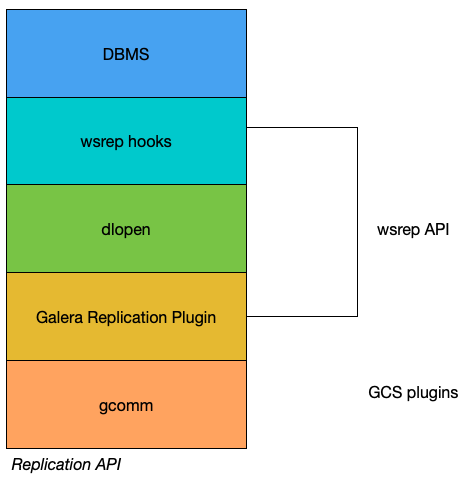
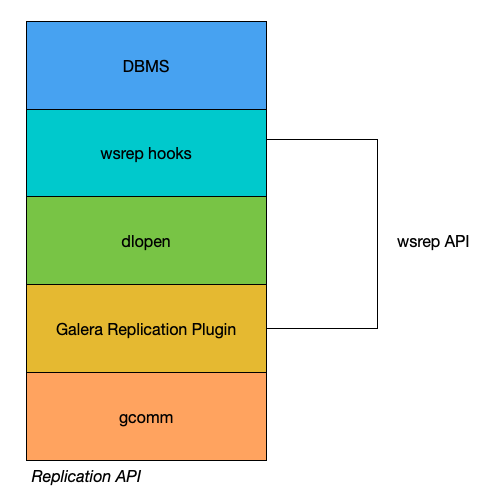
fixed based on teemu's comments, spread is gone

diff --git a/galeracluster/source/documentation/architecture.rst b/galeracluster/source/documentation/architecture.rst
@@ -73,9 +73,6 @@ The internal architecture of Galera Cluster revolves around four components:
 
 - **Galera Replication Plugin:** This plugin enables write-set replication service functionality.
 
-- **Group Communication Plugins:** The initial idea was to have several group communication systems available to Galera Cluster (e.g., *gcomm* and `Spread <https://www.spread.org/>`_), however for practicality the only group communication system one uses with Galera Cluster is *gcomm*.
-
-
 .. _`wsrep-api`:
 .. rst-class:: section-heading
 .. rubric:: wsrep API
